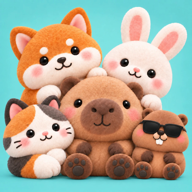
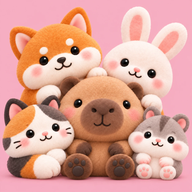
プライバシーポリシー・利用規約を10/15版に、アイコンを新しい絵に更新

diff --git a/privacy.html b/privacy.html
@@ -86,7 +86,7 @@ footer a { margin: 0 8px; }
 <nav class="back"><a href="index.html">わくパル サポート</a></nav>
 <article class="card">
 <h2>プライバシーポリシー</h2>
-<p class="meta">最終更新日：2026年10月14日</p>
+<p class="meta">最終更新日：2026年10月15日</p>
 <p class="lead">わくパル（以下「本アプリ」といいます。）の運営者（以下「運営者」といいます。）は、本アプリにおけるユーザーの情報の取扱いについて、以下のとおりプライバシーポリシーを定めます。</p>
 <h3>1. 基本的な考え方</h3>
 <p>本アプリは、アカウントの登録やログインをせずに利用できます。</p>
@@ -108,11 +108,11 @@ footer a { margin: 0 8px; }
 <p>通信の状態などで送信できなかった場合は、ユーザーの端末のメールアプリから送信する方法に切り替わります。その場合は、Formspree を経由せず、送信元のメールアドレスを運営者が受け取ります。</p>
 <h3>4. みんなでこつこつ（同じ部屋の人に見える情報）</h3>
 <p>「みんなでこつこつ」は、大切な人（部屋コード）や知らない人と同じ部屋に入り、おたがいがこつこつしている様子を見られる機能です。部屋に入ったとき、部屋を出るまでのあいだだけ、次の情報を同じ部屋の人に送ります。</p>
-<ul><li>端末ごとにアプリが作るランダムな ID（個人の名前や Apple ID とは結び付いていません）</li><li>選んでいるパルの種類と、使っている背景</li><li>いまの状態（こつこつ中・休憩中・じゅんび中）と、こつこつを始めた時刻</li><li>「大切な人と」の部屋に限り、ユーザーが自分で入力した「やること」（1〜2件・各30文字まで）</li><li>「大切な人と」の部屋を招待コードを表示してつくった場合に限り、ユーザーがつけた「部屋の名前」（20文字まで）</li></ul>
-<p>ユーザーの名前、パルにつけた名前、記録の内容、位置情報は送りません。「やること」と「部屋の名前」は「大切な人と」の部屋でだけ同じ部屋の人に見えます（「みんなで」の部屋には送りません）。「やること」と「部屋の名前」以外に、文字や写真を送りあう機能はありません。</p>
+<ul><li>端末ごとにアプリが作るランダムな ID（個人の名前や Apple ID とは結び付いていません）</li><li>選んでいるパルの種類と、使っている背景</li><li>いまの状態（こつこつ中・休憩中・じゅんび中）と、こつこつを始めた時刻</li><li>「大切な人と」の部屋に限り、ユーザーが自分で入力した「やること」（1〜2件・各30文字まで）</li><li>「大切な人と」の部屋を招待コードを表示してつくった場合に限り、ユーザーがつけた「部屋の名前」（20文字まで）</li><li>「大切な人と」の部屋に限り、ユーザーがパルに自分でつけた名前（6文字まで。名前をつけていない場合は送りません）</li></ul>
+<p>ユーザーの名前、記録の内容、位置情報は送りません。「やること」「部屋の名前」「パルにつけた名前」は「大切な人と」の部屋でだけ同じ部屋の人に見えます（「みんなで」の部屋には送りません）。この3つ以外に、文字や写真を送りあう機能はありません。</p>
 <p>この通信には、Supabase, Inc. が提供するリアルタイム通信サービス「Supabase Realtime」を利用しています。運営者は、これらの情報を保存するデータベースを持っておらず、部屋を出る（またはアプリを閉じる）と、部屋からその情報は消えます。ただし、Supabase は通信の運用のために、IP アドレスなどの接続の記録を一定期間保持することがあります。Supabase の取扱いについては、同社のプライバシーポリシー（<a href="https://supabase.com/privacy" rel="noopener">https://supabase.com/privacy</a>）をご覧ください。</p>
 <p>「みんなで」の部屋には、同じ時間にその部屋に入った不特定の人が入ります。「大切な人と」の部屋は、部屋コードを知っている人なら誰でも入れます。部屋コードは、信頼できる人にだけ伝えてください。</p>
-<p>「大切な人と」の部屋で他の人の「やること」や「部屋の名前」がふさわしくないと感じたときは、その人のマスの「…」から、運営者に通報する（通報の内容は運営者にだけ届き、相手には伝わりません）か、その人を非表示にすることができます。非表示にした人の情報は、この端末の中にだけ保存されます。</p>
+<p>「大切な人と」の部屋で他の人の「やること」「部屋の名前」「パルにつけた名前」がふさわしくないと感じたときは、その人のマスの「…」から、運営者に通報する（通報の内容は運営者にだけ届き、相手には伝わりません）か、その人を非表示にすることができます。非表示にした人の情報は、この端末の中にだけ保存されます。</p>
 <p>「みんなでこつこつ」の部屋に入らなければ、上記の情報を部屋に送る通信は行われません。</p>
 <p>アプリのホーム画面では、「いま〇人」を表示するため、数秒だけ同じサービスに接続して、いまこつこつしている人数を数えます。このとき送られるのは接続に必要な情報だけで、ユーザーの状態は部屋に入っていなければ送られません。</p>
 <h3>5. 広告について</h3>

diff --git a/terms.html b/terms.html
@@ -86,7 +86,7 @@ footer a { margin: 0 8px; }
 <nav class="back"><a href="index.html">わくパル サポート</a></nav>
 <article class="card">
 <h2>わくパル 利用規約</h2>
-<p class="meta">最終更新日：2026年10月7日</p>
+<p class="meta">最終更新日：2026年10月15日</p>
 <p class="lead">本利用規約（以下「本規約」といいます。）は、わくパル（以下「本サービス」といいます。）の利用条件を定めるものです。本サービスをご利用いただくすべてのお客様（以下「ユーザー」といいます。）は、本規約に同意したうえで本サービスをご利用ください。</p>
 <h3>第1条（適用）</h3>
 <p>本規約は、ユーザーと本サービス運営者との間の本サービスの利用に関わる一切の関係に適用されます。</p>
@@ -100,7 +100,7 @@ footer a { margin: 0 8px; }
 <p>本サービスは、アカウントの登録やログインをせずに利用できます。</p>
 <h3>第5条（禁止事項）</h3>
 <p>ユーザーは、以下の行為を行ってはなりません。</p>
-<ul><li>法令または公序良俗に違反する行為</li><li>犯罪に関連する行為</li><li>他のユーザーまたは第三者に迷惑をかける行為</li><li>「みんなでこつこつ」で、他の人を傷つける、性的・暴力的・差別的な内容、または個人情報を含む「やること」や「部屋の名前」を入力する行為</li><li>本サービスの運営を妨害する行為</li><li>不正アクセスまたはそれを試みる行為</li><li>不正な方法でダイヤ・アイテム・データを取得する行為</li><li>リバースエンジニアリング、改変、解析等の行為</li><li>BOT・チート・自動操作ツール等の利用</li><li>本サービスの不具合を悪用する行為</li><li>その他、運営者が不適切と判断する行為</li></ul>
+<ul><li>法令または公序良俗に違反する行為</li><li>犯罪に関連する行為</li><li>他のユーザーまたは第三者に迷惑をかける行為</li><li>「みんなでこつこつ」で、他の人を傷つける、性的・暴力的・差別的な内容、または個人情報を含む「やること」「部屋の名前」「パルの名前」を入力する行為</li><li>本サービスの運営を妨害する行為</li><li>不正アクセスまたはそれを試みる行為</li><li>不正な方法でダイヤ・アイテム・データを取得する行為</li><li>リバースエンジニアリング、改変、解析等の行為</li><li>BOT・チート・自動操作ツール等の利用</li><li>本サービスの不具合を悪用する行為</li><li>その他、運営者が不適切と判断する行為</li></ul>
 <h3>第6条（知的財産権）</h3>
 <p>本サービスに含まれるイラスト、キャラクター、ロゴ、デザイン、プログラム、文章、画像その他一切のコンテンツに関する著作権その他の知的財産権は、運営者または正当な権利者に帰属します。</p>
 <p>ユーザーは、運営者の許可なく複製、転載、販売、配布等を行うことはできません。</p>
